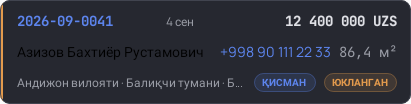
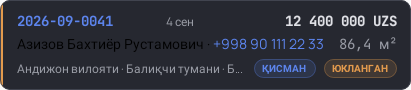
Fix(android) · put the card's phone back where it was
The tappable number was made a separate Text, which pushed it right, dropped
the "·" separator, made the name truncate instead of the number, and grew the
card from 94dp to 118dp. None of that was asked for.

Use a LinkAnnotation inside the existing single Text instead: the line renders
exactly as it did, name and phone flowing together and truncating together,
and only the number responds to taps. The number keeps the link colour, which
is now the only signal that it is tappable.

The trade this restores: the tap target is one line tall, around 20dp, rather
than the ~44dp the padding bought. Discussed and chosen deliberately.

diff --git a/android/feature/orders/src/main/kotlin/uz/etalon/crm/feature/orders/list/OrderCard.kt b/android/feature/orders/src/main/kotlin/uz/etalon/crm/feature/orders/list/OrderCard.kt
@@ -3,7 +3,6 @@ package uz.etalon.crm.feature.orders.list
 import android.content.Context
 import android.content.Intent
 import android.net.Uri
-import androidx.compose.foundation.clickable
 import androidx.compose.foundation.layout.*
 import androidx.compose.material3.MaterialTheme
 import androidx.compose.material3.Text
@@ -11,10 +10,13 @@ import androidx.compose.runtime.Composable
 import androidx.compose.ui.Alignment
 import androidx.compose.ui.Modifier
 import androidx.compose.ui.platform.LocalContext
-import androidx.compose.ui.res.stringResource
-import androidx.compose.ui.semantics.Role
+import androidx.compose.ui.text.LinkAnnotation
+import androidx.compose.ui.text.SpanStyle
+import androidx.compose.ui.text.TextLinkStyles
+import androidx.compose.ui.text.buildAnnotatedString
 import androidx.compose.ui.text.font.FontWeight
 import androidx.compose.ui.text.style.TextOverflow
+import androidx.compose.ui.text.withLink
 import androidx.compose.ui.unit.dp
 import uz.etalon.crm.core.designsystem.components.*
 import uz.etalon.crm.core.designsystem.theme.EtalonType
@@ -22,7 +24,6 @@ import uz.etalon.crm.core.model.OrderSummary
 import uz.etalon.crm.core.ui.format.formatAddressLine
 import uz.etalon.crm.core.ui.format.formatPhone
 import uz.etalon.crm.core.ui.format.formatScheduleDate
-import uz.etalon.crm.feature.orders.R
 import java.time.Instant
 
 /**
@@ -46,7 +47,6 @@ private fun dial(ctx: Context, phone: String) {
 @Composable
 fun OrderCard(o: OrderSummary, now: Instant = Instant.now(), onClick: () -> Unit) {
     val ctx = LocalContext.current
-    val callLabel = stringResource(R.string.action_call)
     StatusStripeCard(stripe = toneColor(orderStatusTone(o.status)), onClick = onClick) {
         Row(Modifier.fillMaxWidth(), verticalAlignment = Alignment.CenterVertically, horizontalArrangement = Arrangement.spacedBy(8.dp)) {
             Text(o.orderNumber, style = EtalonType.monoBody.copy(fontWeight = FontWeight.Bold), color = MaterialTheme.colorScheme.primary)
@@ -57,24 +57,26 @@ fun OrderCard(o: OrderSummary, now: Instant = Instant.now(), onClick: () -> Unit
             Text(formatScheduleDate(o.scheduledAt, now), style = MaterialTheme.typography.bodySmall, color = MaterialTheme.colorScheme.onSurfaceVariant, modifier = Modifier.weight(0.75f), maxLines = 1, overflow = TextOverflow.Ellipsis)
             MoneyText(o.totalPrice, style = EtalonType.monoBody.copy(fontWeight = FontWeight.Bold))
         }
+        Spacer(Modifier.height(4.dp))
         Row(Modifier.fillMaxWidth(), verticalAlignment = Alignment.CenterVertically) {
-            // The name yields and the phone does not: the phone is a tap target, and a
-            // half-shown number is a number you cannot trust before dialling it.
-            Text(o.client.name, style = MaterialTheme.typography.bodyMedium, modifier = Modifier.weight(1f), maxLines = 1, overflow = TextOverflow.Ellipsis)
-            Text(
-                formatPhone(o.client.phone),
-                style = MaterialTheme.typography.bodyMedium,
-                color = MaterialTheme.colorScheme.primary,
-                maxLines = 1,
-                modifier = Modifier
-                    // Nested inside the card's own click: this consumes the tap, so the
-                    // phone dials and does not also open the order. The padding is the
-                    // touch target — 12.dp of it carries a 20.dp line to ~44.dp.
-                    .clickable(onClickLabel = callLabel, role = Role.Button) { dial(ctx, o.client.phone) }
-                    .padding(horizontal = 8.dp, vertical = 12.dp),
-            )
+            // One line, exactly as it reads without the link: only the number is annotated,
+            // so the name and phone still flow together and truncate together. The link
+            // consumes its own taps, so the number dials and the rest of the card opens
+            // the order.
+            val line = buildAnnotatedString {
+                append(o.client.name)
+                append(" · ")
+                withLink(
+                    LinkAnnotation.Clickable(
+                        tag = "phone",
+                        styles = TextLinkStyles(SpanStyle(color = MaterialTheme.colorScheme.primary)),
+                    ) { dial(ctx, o.client.phone) },
+                ) { append(formatPhone(o.client.phone)) }
+            }
+            Text(line, style = MaterialTheme.typography.bodyMedium, modifier = Modifier.weight(1f), maxLines = 1, overflow = TextOverflow.Ellipsis)
             AreaText(o.totalArea)
         }
+        Spacer(Modifier.height(6.dp))
         Row(Modifier.fillMaxWidth(), verticalAlignment = Alignment.CenterVertically, horizontalArrangement = Arrangement.spacedBy(8.dp)) {
             Text(formatAddressLine(o.client.address).orEmpty(), style = MaterialTheme.typography.bodySmall, color = MaterialTheme.colorScheme.onSurfaceVariant, modifier = Modifier.weight(1f), maxLines = 1, overflow = TextOverflow.Ellipsis)
             PaymentChip(o.paymentState)
